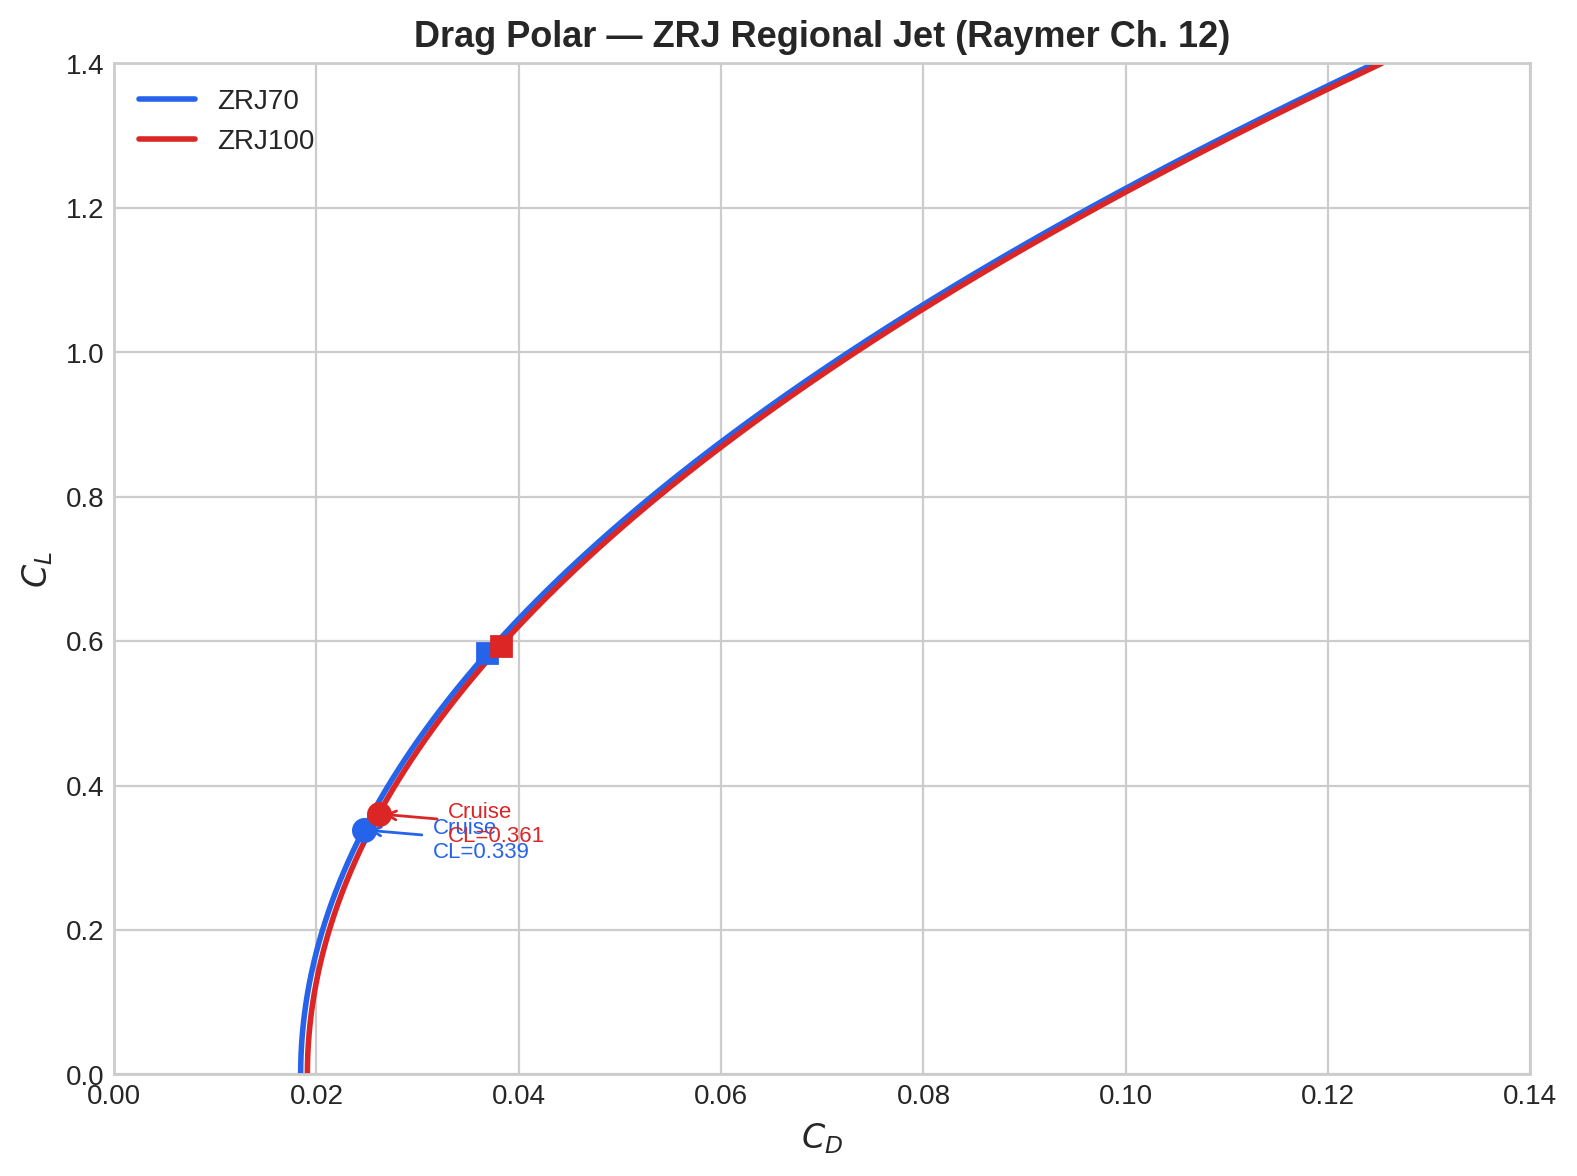
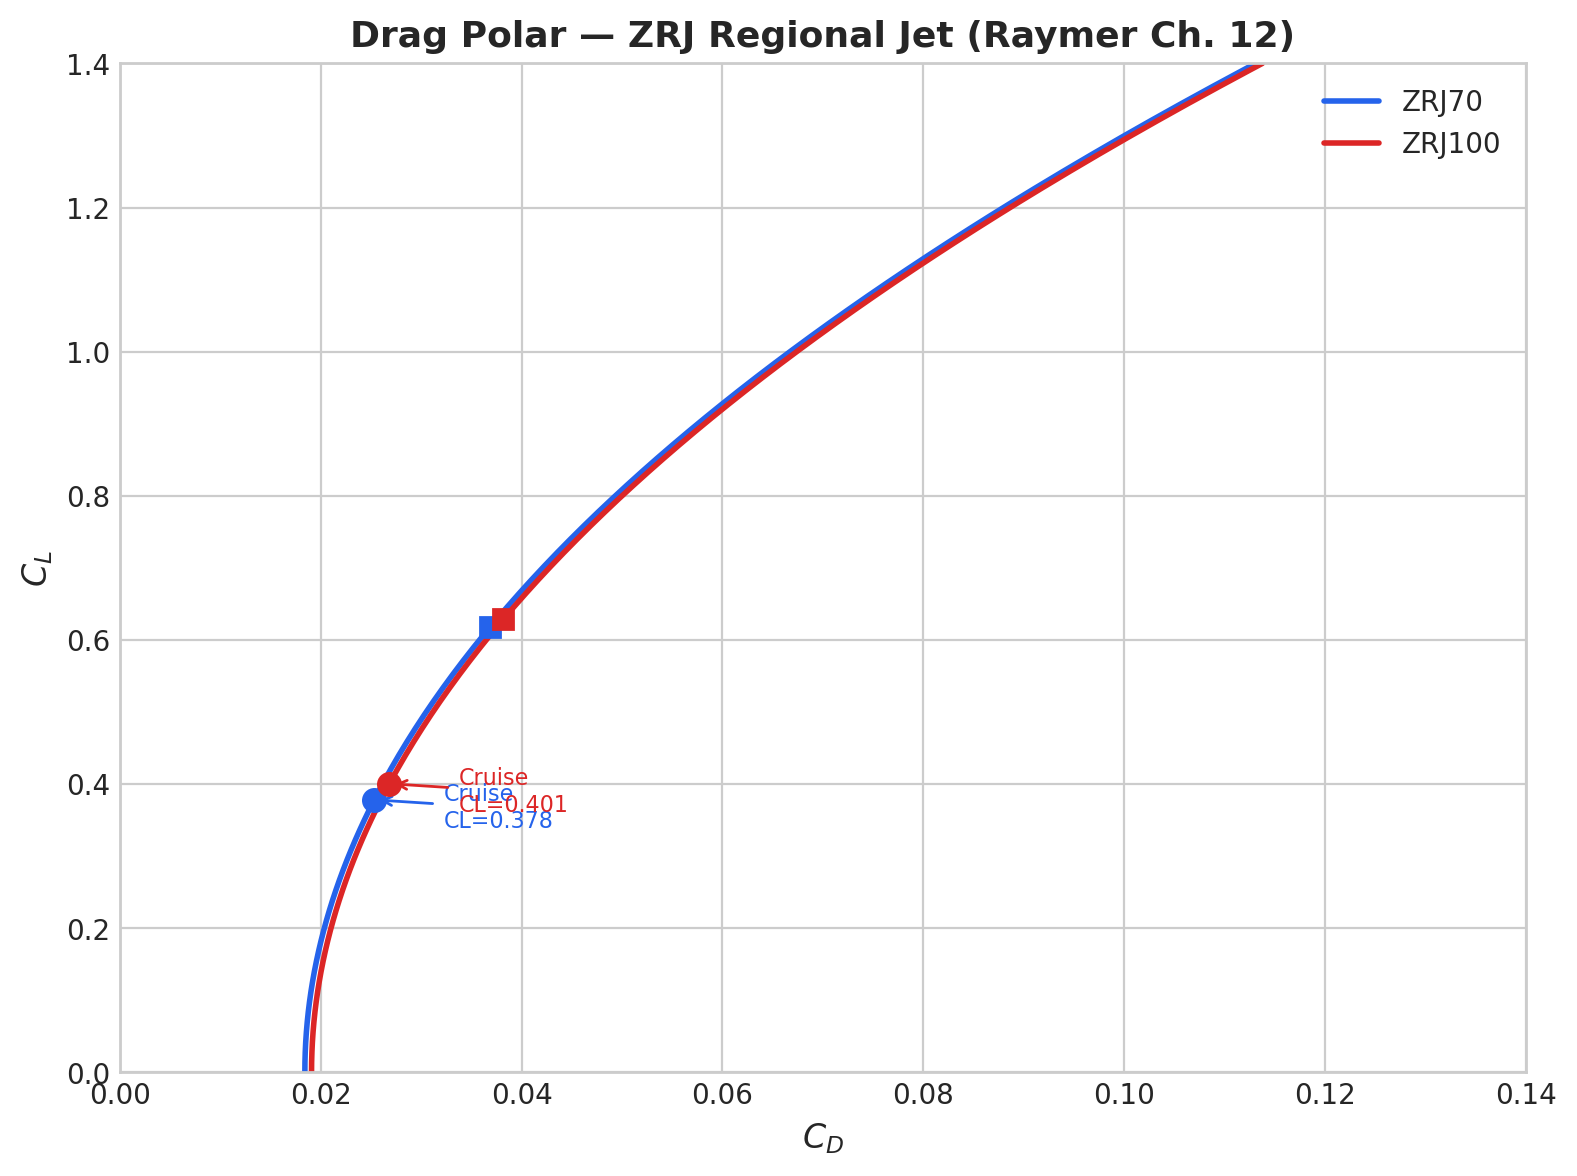
Update MTOW to mission-analysis solved W0 (ZRJ70: 88,635, ZRJ100: 93,875) and regenerate charts

diff --git a/data/ZRJ100.py b/data/ZRJ100.py
@@ -28,7 +28,7 @@ AIRCRAFT = {
     "fuse_length": 110.2,         # ft, fuselage length
 
     # --- Weights ---
-    "MTOW": 91492.0,              # lbs
+    "MTOW": 93875.0,              # lbs
 
     # --- Horizontal tail (T-tail) ---
     "S_htail": 276.92,            # ft^2, htail reference area

diff --git a/data/ZRJ70.py b/data/ZRJ70.py
@@ -28,7 +28,7 @@ AIRCRAFT = {
     "fuse_length": 96.7,          # ft, fuselage length
 
     # --- Weights ---
-    "MTOW": 85888.0,              # lbs
+    "MTOW": 88635.0,              # lbs
 
     # --- Horizontal tail (T-tail) ---
     "S_htail": 276.92,            # ft^2, htail reference area

diff --git a/README.md b/README.md
@@ -74,16 +74,16 @@ includes the Raymer equation number in a comment.
 | e (LE suction) | 0.727 | 0.727 | Eq. 12.57 — recommended |
 | K (LE suction) | 0.0483 | 0.0483 | Recommended for sizing |
 | (L/D)_max | 16.76 | 16.46 | With LE suction K |
-| L/D cruise | 14.71 | 14.76 | M 0.78 at 35,000 ft |
-| CL cruise | 0.3665 | 0.3905 | W_cruise / (q * S_ref) |
+| L/D cruise | 14.54 | 14.79 | M 0.78 at 35,000 ft |
+| CL cruise | 0.3581 | 0.3922 | W_cruise / (q * S_ref) |
 | CLa | 5.99 /rad | 5.99 /rad | At cruise Mach |
 | CLmax clean | 1.161 | 1.161 | Eq. 12.15 |
 | CLmax takeoff | 1.990 | 1.990 | Double slotted flaps, no slats |
 | CLmax landing | 2.624 | 2.624 | Double slotted flaps + slats |
 | MDD | 0.839 | 0.836 | Korn equation (Eq. 12.46) |
-| T_required | 5,372 lbs | 5,704 lbs | Total cruise thrust (T = D) |
-| T per engine | 2,686 lbs | 2,852 lbs | x2 engines |
-| T/W_cruise | 0.0680 | 0.0678 | Thrust-to-weight at cruise |
+| T_required | 5,309 lbs | 5,719 lbs | Total cruise thrust (T = D) |
+| T per engine | 2,654 lbs | 2,859 lbs | x2 engines |
+| T/W_cruise | 0.0688 | 0.0676 | Thrust-to-weight at cruise |
 
 ## Stability & Control Values
 
@@ -99,8 +99,8 @@ XFLR5 results for improved accuracy.
 | Cm_0_ac | −0.0618 \* | −0.0618 \* | 3D correction of 2D cm_0 |
 | CLmax (clean) | 1.161 | 1.161 | Eq. 12.15 |
 | α_CLmax | 9.1° \* | 9.1° \* | Depends on α_0L |
-| CL_cruise | 0.3665 | 0.3905 | W_cruise / (q × S_ref) |
-| α_CL_cruise | 1.51° \* | 1.74° \* | Depends on α_0L |
+| CL_cruise | 0.3581 | 0.3922 | W_cruise / (q × S_ref) |
+| α_CL_cruise | 1.43° \* | 1.75° \* | Depends on α_0L |
 
 ### Horizontal Tail (AR = 3.94)
 
